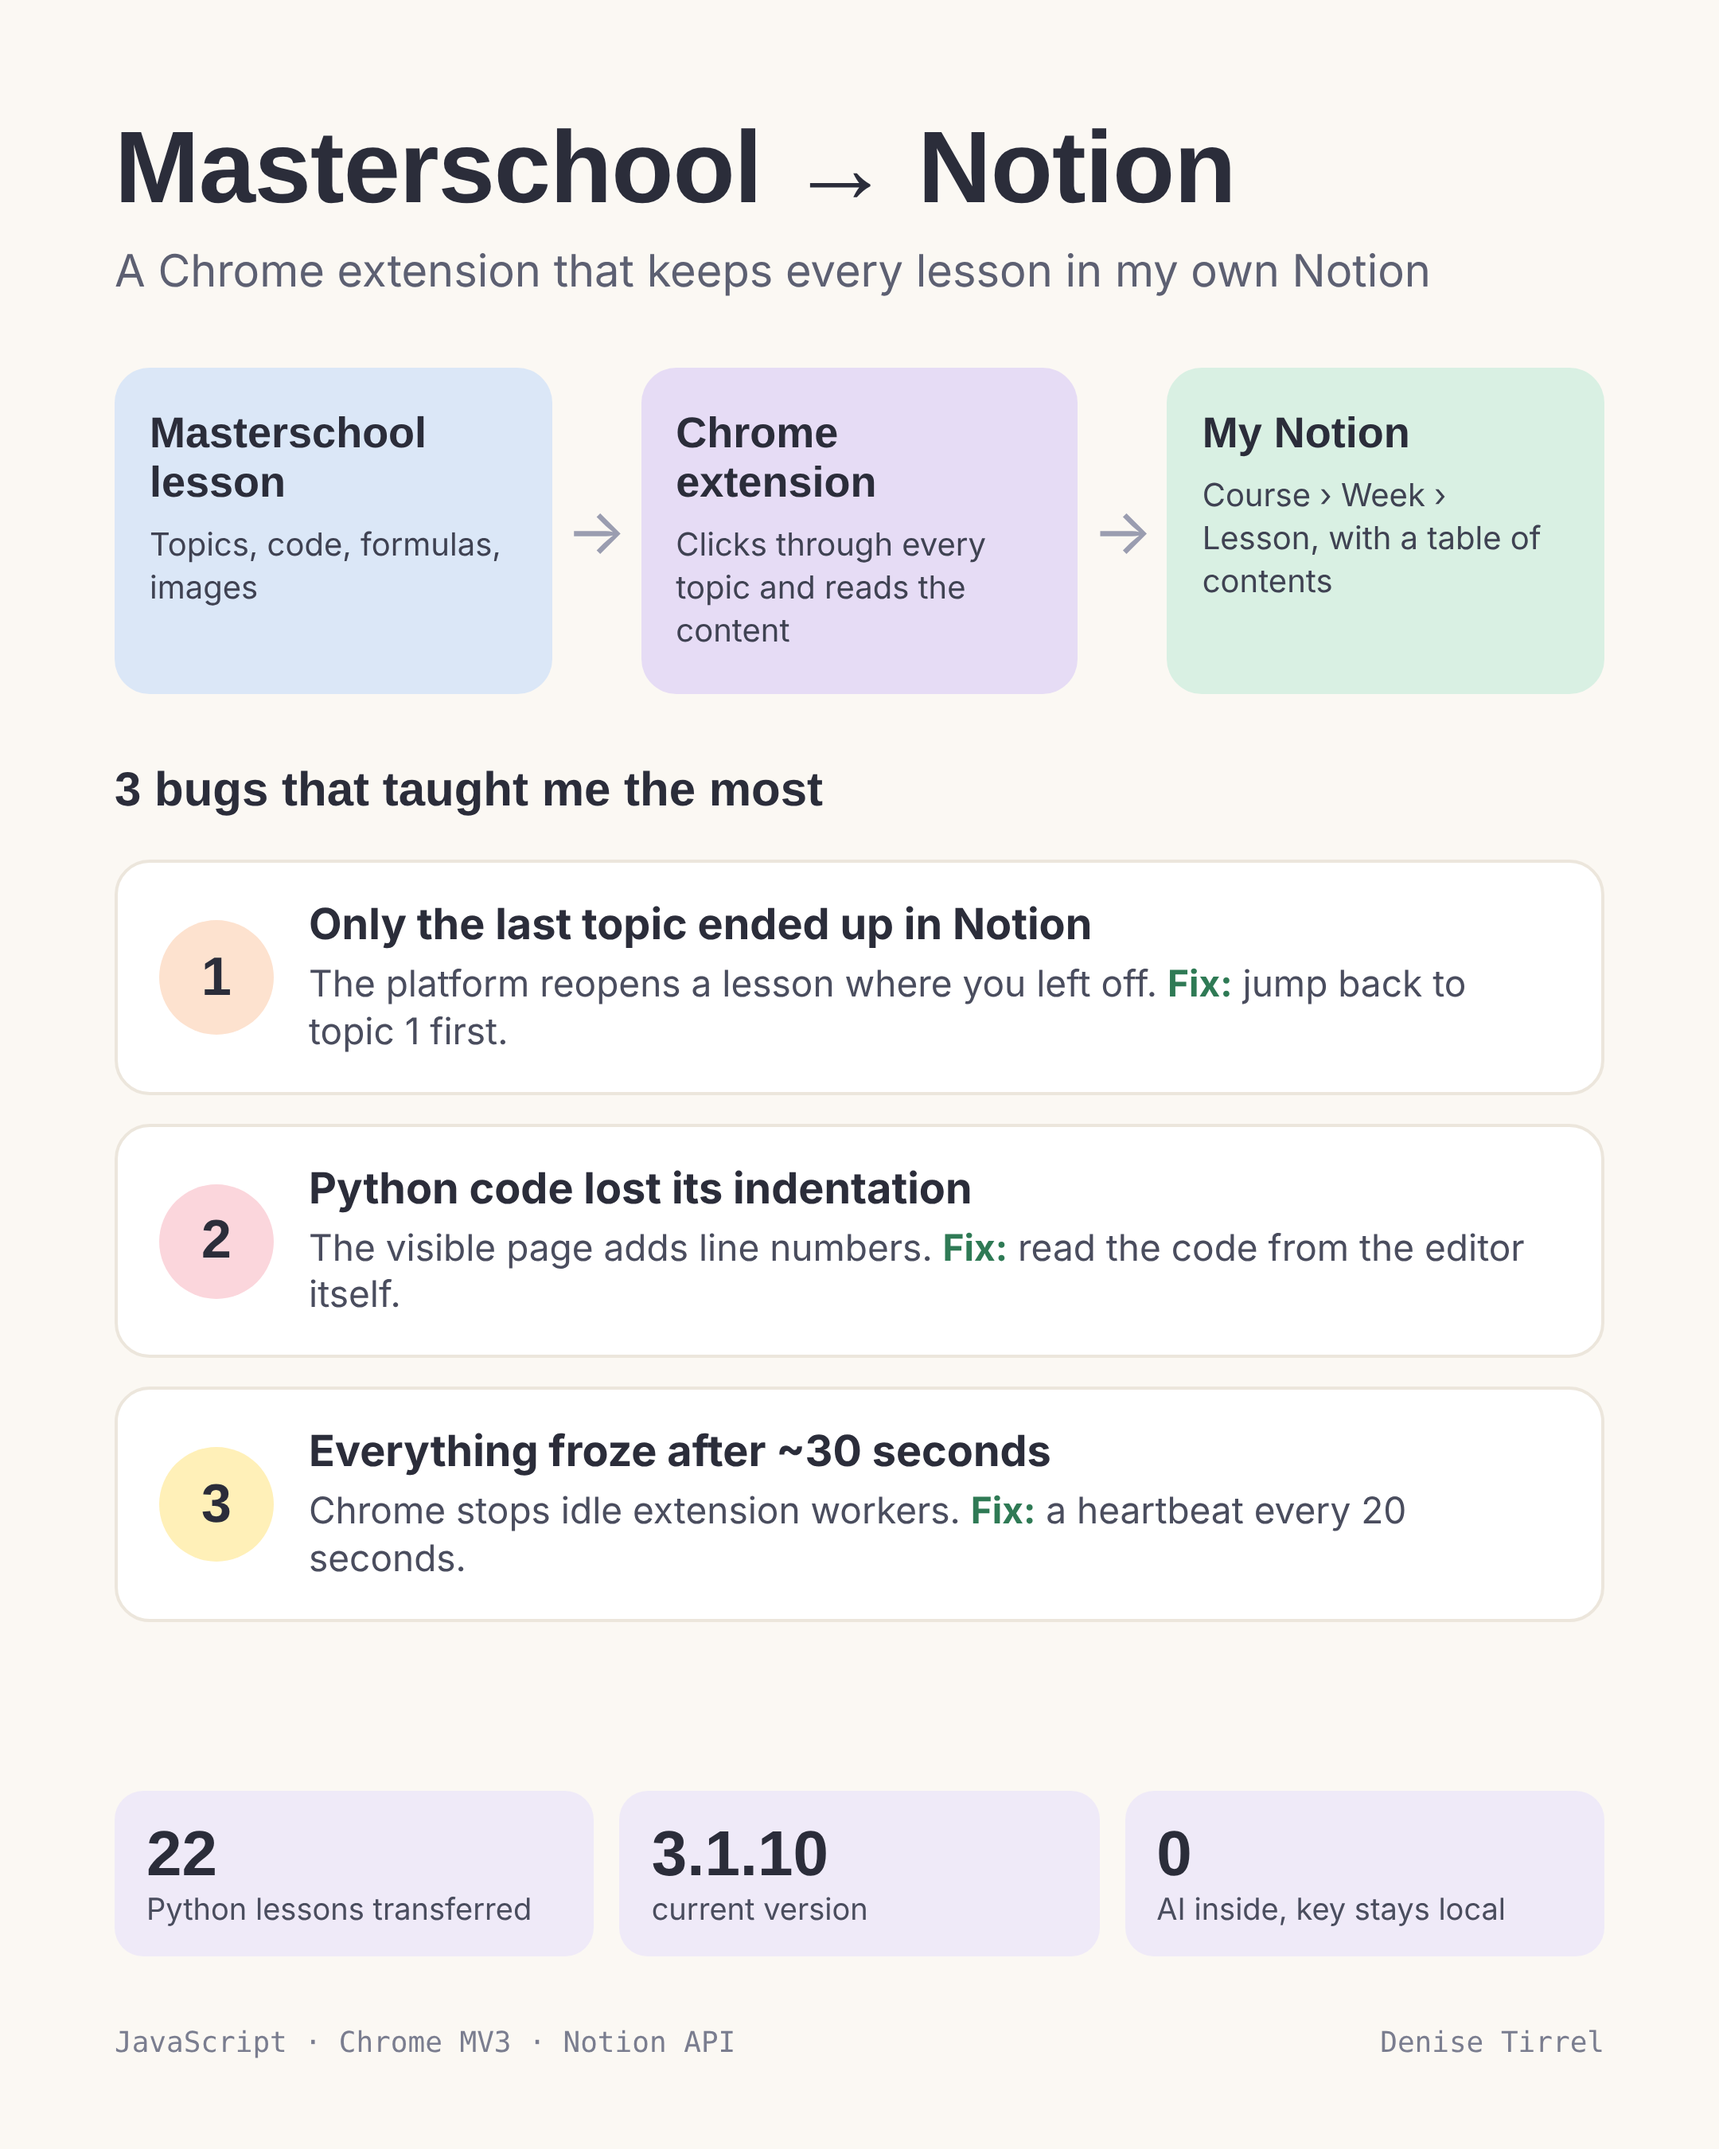
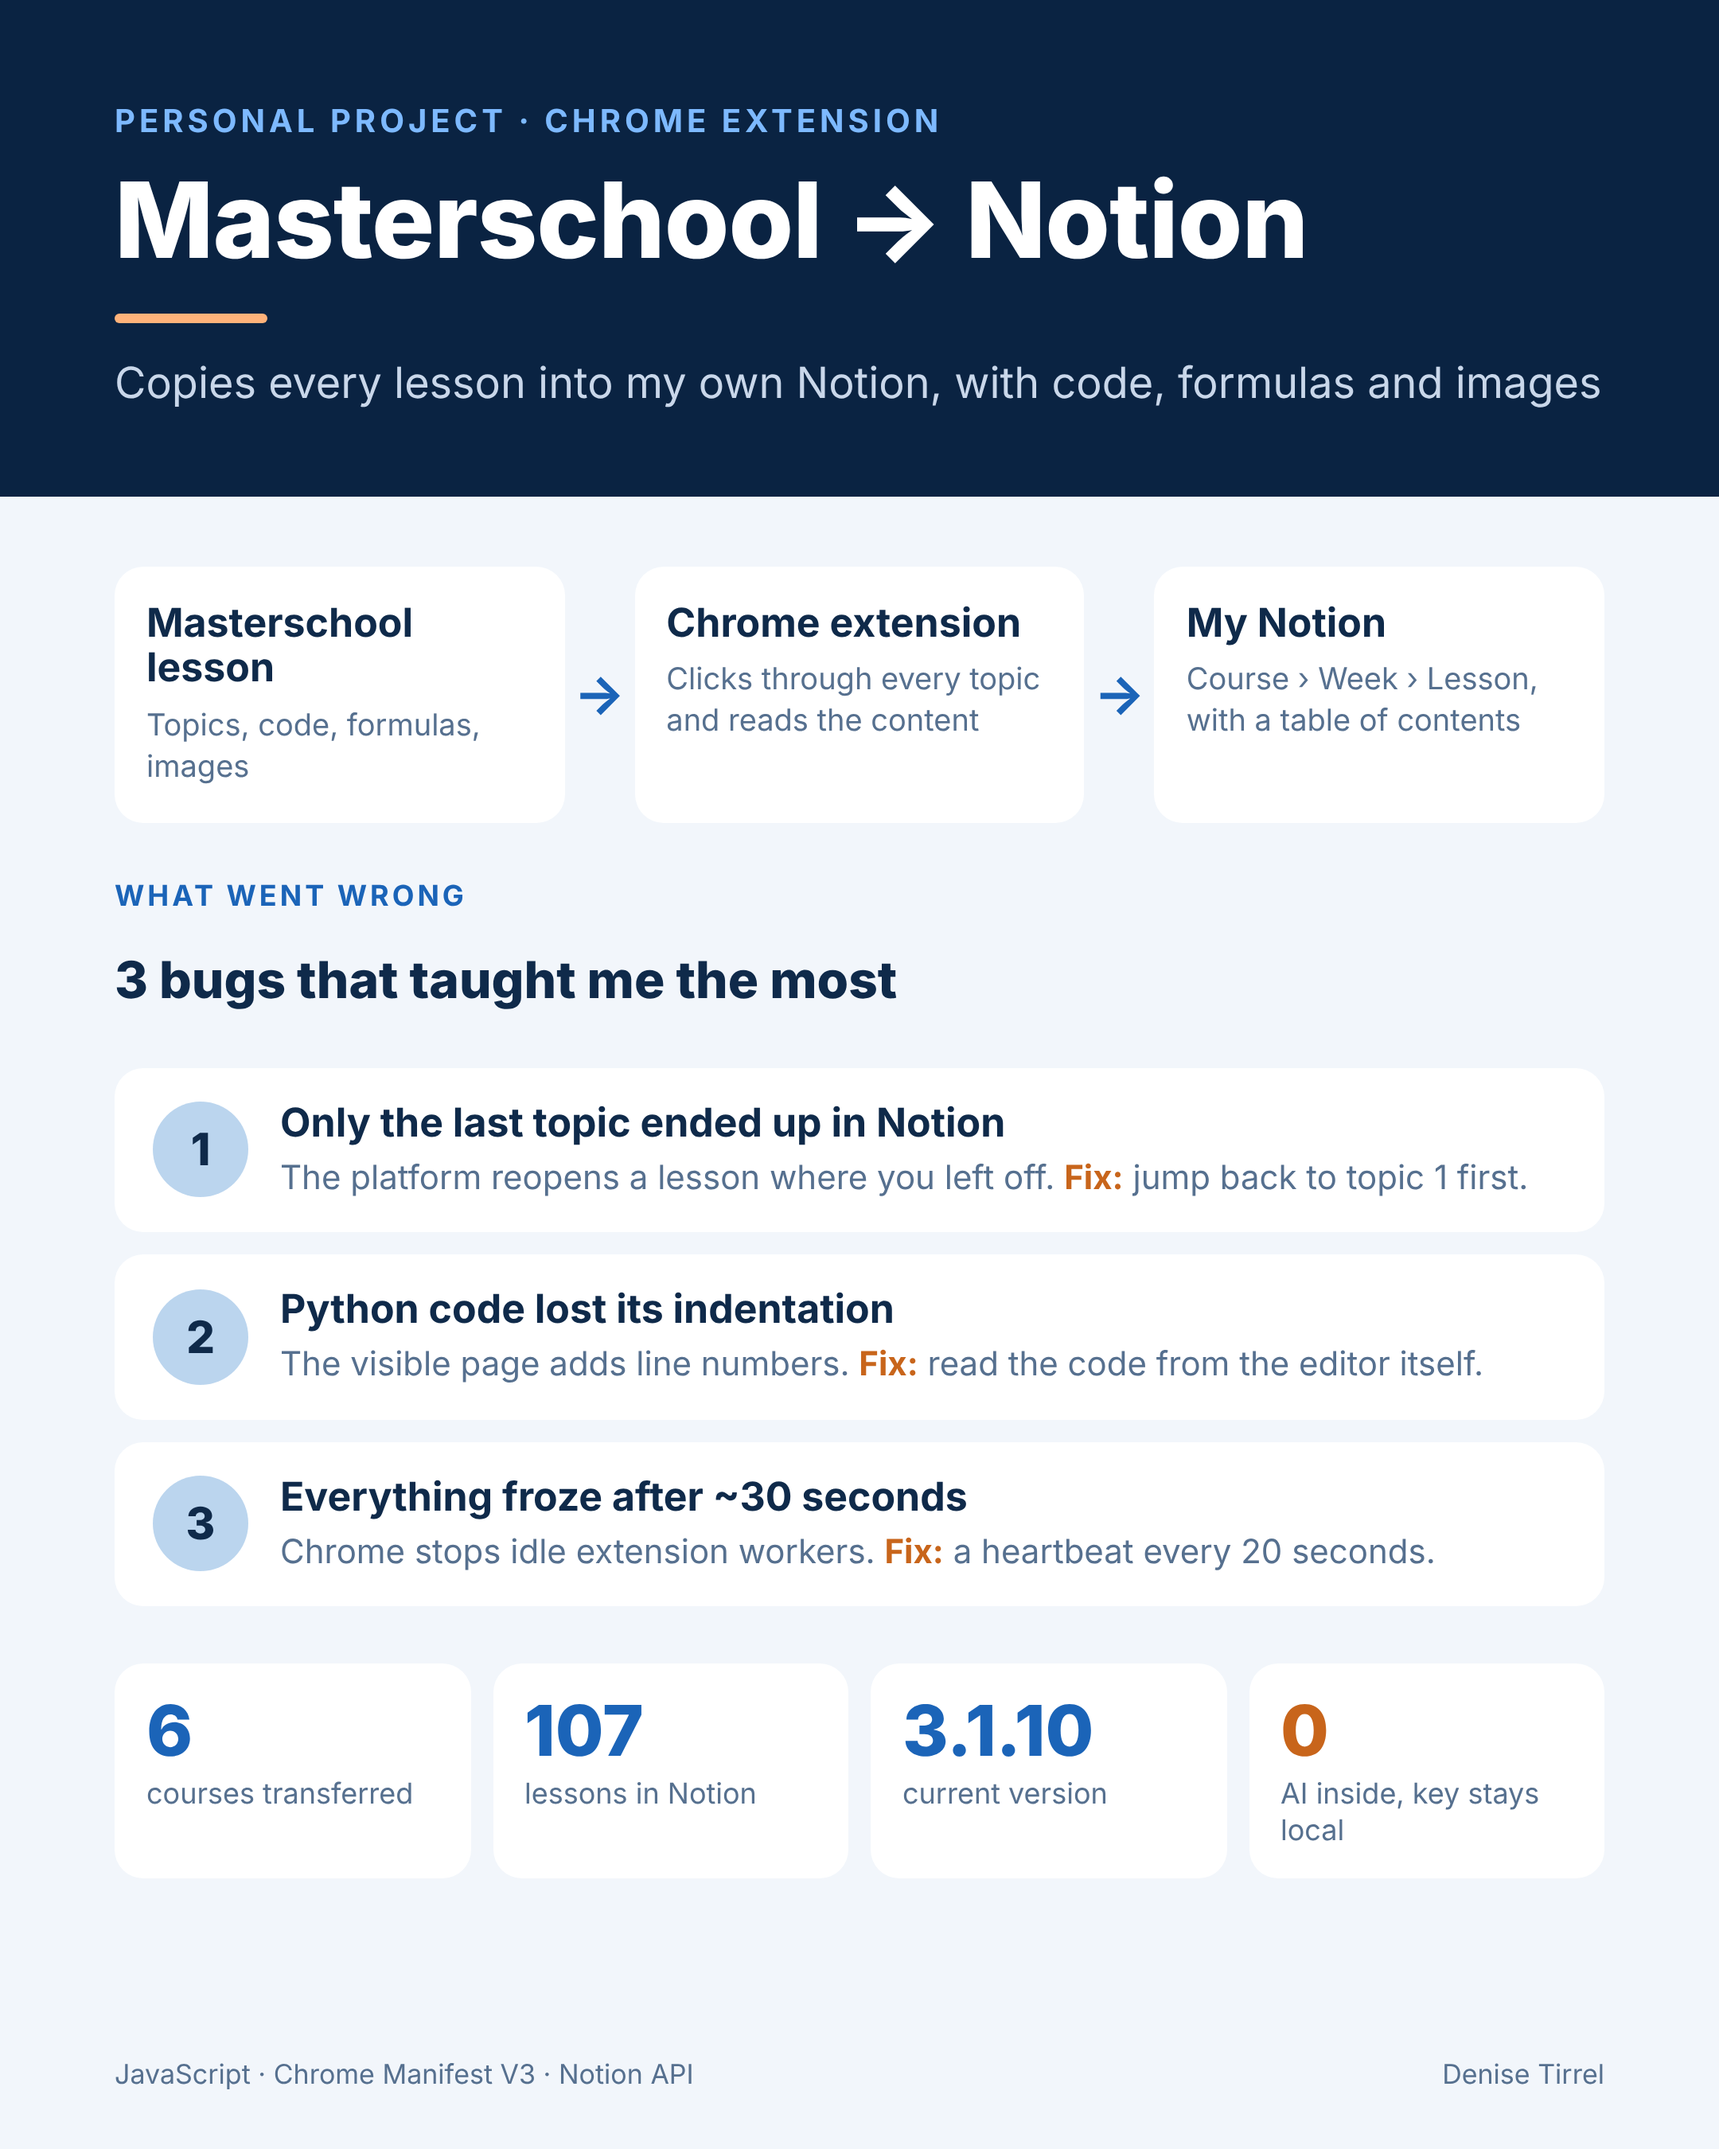
Update graphic and status numbers
Claude-Session: https://claude.ai/code/session_0162dXhLZkrv41B9pCsDCyTn

diff --git a/README.md b/README.md
@@ -46,6 +46,6 @@ Chrome shuts down an extension's service worker after roughly 30 seconds without
 
 ## Status
 
-Version 3.1.10. All 22 lessons of Python Fundamentals transferred; further courses in progress.
+Version 3.1.10. Six courses with 107 lessons transferred so far (SQL, Python, Power BI, spreadsheets).
 
 Built by Denise Tirrel in pair-programming sessions with Claude.
